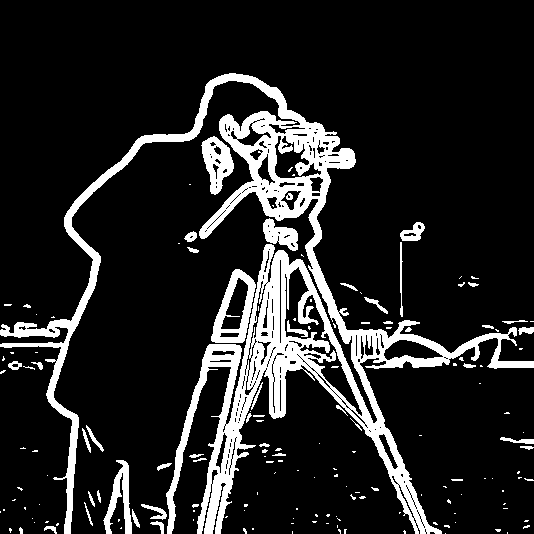
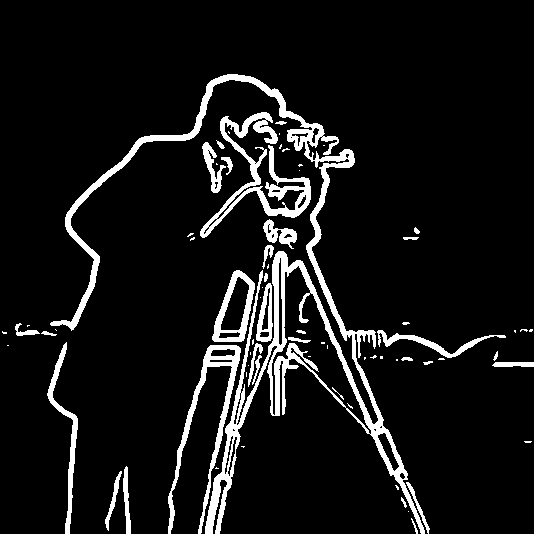
docs(proj2): raise edge threshold to 0.28

diff --git a/docs/proj2/index.html b/docs/proj2/index.html
@@ -89,7 +89,7 @@
       </div>
 
       <h3>Binarizing: two rejects, then the chosen cut</h3>
-      <p class="intro">I divided the magnitude by its max, then kept pixels above a threshold. That choice is qualitative: keep the tripod and buildings, kill as much grass as I can. 0.10 and 0.23 miss that tradeoff in opposite ways.</p>
+      <p class="intro">I divided the magnitude by its max, then kept pixels above a threshold. The goal is to keep the main cameraman and tripod edges while removing most of the grass texture. 0.10 leaves too much noise, while 0.50 cuts away important structure.</p>
       <div class="trial-grid">
         <figure>
           <span class="badge badge-reject">Rejected</span>
@@ -98,14 +98,14 @@
         </figure>
         <figure>
           <span class="badge badge-reject">Rejected</span>
-          <img src="assets/edges_0.23.png" alt="Rejected cameraman edges at threshold 0.23" />
-          <figcaption><b>Threshold 0.23</b><span>Grass is mostly gone, but the tripod, coat folds, and far buildings break up.</span></figcaption>
+          <img src="assets/edges_0.5.png" alt="Rejected cameraman edges at threshold 0.50" />
+          <figcaption><b>Threshold 0.50</b><span>Too high. Even the camera and tripod have broken or missing edges.</span></figcaption>
         </figure>
       </div>
       <figure class="final-result">
         <span class="badge badge-chosen">Chosen result</span>
-        <img src="assets/edges_0.15.png" alt="Chosen cameraman edge image at threshold 0.15" />
-        <figcaption><b>Threshold 0.15</b><span>This is the edge image I am presenting. Some grass remains, but the cameraman, tripod, and skyline stay connected. I would rather keep a little texture than erase real structure.</span></figcaption>
+        <img src="assets/edges_0.28.png" alt="Chosen cameraman edge image at threshold 0.28" />
+        <figcaption><b>Threshold 0.28</b><span>This is the edge image I am presenting. The person, camera, and tripod still read clearly, and most grass noise is gone. Some faint background edges disappear too.</span></figcaption>
       </figure>
     </section>
 
@@ -116,17 +116,17 @@
       </div>
 
       <h3>Method 1: blur the image, then take derivatives</h3>
-      <p class="intro">Convolve with G, then with Dx and Dy, then form the same magnitude and 0.15 threshold as in 1.2. The blur is the only new ingredient.</p>
+      <p class="intro">Convolve with G, then with Dx and Dy, then form the same magnitude and 0.28 threshold as in 1.2. The blur is the only new ingredient.</p>
       <div class="gallery narrow">
         <figure><img src="assets/cameraman_blurred.jpg" alt="Gaussian blurred cameraman" /><figcaption><b>After Gaussian blur</b><span>9 × 9, σ = 2. Compare with the original in 1.2.</span></figcaption></figure>
       </div>
       <div class="gallery two">
         <figure><img src="assets/blurred_gradient.jpg" alt="Gradient magnitude after Gaussian smoothing" /><figcaption><b>Gradient magnitude</b><span>Dx and Dy on the blurred image</span></figcaption></figure>
-        <figure><img src="assets/blurred_edges.png" alt="Thresholded edges after blur then derivative" /><figcaption><b>Binarized edges</b><span>Same threshold 0.15</span></figcaption></figure>
+        <figure><img src="assets/blurred_edges.png" alt="Thresholded edges after blur then derivative" /><figcaption><b>Binarized edges</b><span>Same threshold 0.28</span></figcaption></figure>
       </div>
 
       <h3>What changed versus finite differences</h3>
-      <p class="intro">Compare this edge map with the chosen 1.2 result above. Most grass speckle disappears. The remaining edges are thicker because the blur spreads each transition over more pixels before the derivative runs. The cameraman and tripod stay clear, although some faint background edges are lost too. Both maps were normalized by their own maximum before the 0.15 cut, so this is the same relative threshold, not the same raw gradient value.</p>
+      <p class="intro">Compare this edge map with the chosen 1.2 result above. The remaining edges are thicker because the blur spreads each transition over more pixels before the derivative runs. The cameraman and tripod stay clear, but more of the background disappears. Both maps were normalized by their own maximum before the 0.28 cut, so this is the same relative threshold, not the same raw gradient value.</p>
 
       <h3>Method 2: fuse the filters, then convolve once</h3>
       <p class="intro">Convolution is associative, so blur-then-Dx is the same as convolving the image with (G ∗ Dx). I convolved the Gaussian with Dx and with Dy to get two derivative-of-Gaussian filters, then applied each once to the original cameraman. Both methods use the same symmetric padding and crop only at the end. Cropping the intermediate blur would change the border pixels. The kernels below are shown pixelated so their positive and negative lobes are readable.</p>
@@ -135,7 +135,7 @@
         <figure><img src="assets/dog_y_filter.png" alt="Derivative of Gaussian filter in y, shown as a small kernel" /><figcaption><b>DoG y</b><span>G ∗ Dy</span></figcaption></figure>
       </div>
       <div class="gallery narrow">
-        <figure><img src="assets/dog_edges.png" alt="Thresholded edges using derivative of Gaussian" /><figcaption><b>DoG edges</b><span>Same result as method 1 at threshold 0.15</span></figcaption></figure>
+        <figure><img src="assets/dog_edges.png" alt="Thresholded edges using derivative of Gaussian" /><figcaption><b>DoG edges</b><span>Same result as method 1 at threshold 0.28</span></figcaption></figure>
       </div>
       <div class="prose">
         <p>These match method 1. Max absolute difference on the gradient maps was 1.16 × 10<sup>−15</sup>. The two binarized images differ in zero pixels. Each combined filter replaces blur-plus-derivative for one direction. The picture does not change.</p>
